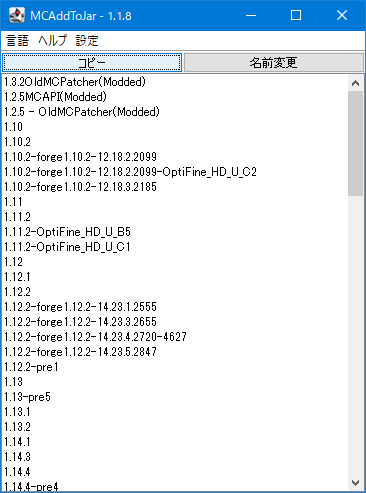
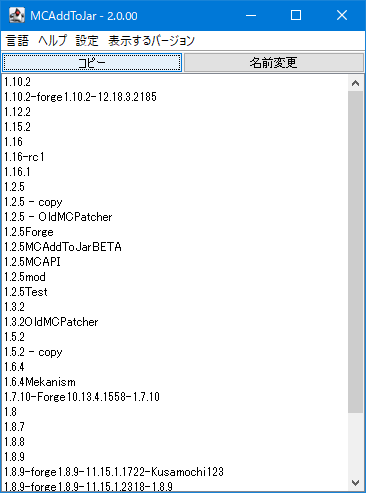
Update for 2.0.00

diff --git a/OldMCPatcher/index.html b/OldMCPatcher/index.html
@@ -8,8 +8,14 @@
         font-family: meiryo, sans-serif;
       }
       .main {
-        margin: 0 40px;
+        margin: 10px 50px;
+		padding: 20px;
+	    background-color: #fff;
+		border-radius: 10px;
       }
+	  body {
+	    background-color: #33638a;
+	  }
       h2 {
         border-bottom: 1px solid #636363;
         border-left: 3px solid #636363;
@@ -115,14 +121,14 @@
     <img src="MCAddToJar/start.png">
     <p>OldMCPatcher導入サポートソフト。</p>
     <p>ダウンロードリンク:<a href="https://github.com/kusaanko/MCAddToJar/releases">https://github.com/kusaanko/MCAddToJar/releases</a></p>
-    <p>サポートランチャーバージョン:1.6以前、2.x</p>
+    <p>サポートランチャーバージョン:2.x</p>
     <p>サポートマインクラフトバージョン:1.0～1.5.2</p>
     <h2>概要</h2>
     <p>MCPatcherの新ランチャー対応版が私の環境では動かなかったので似たものを作りました。</p>
     <p>上記のOldMCPatcherの導入を自動で行ってくれる機能もあります。（メイン機能？）</p>
     <p>複数の便利機能を備えています。</p>
     <p>Minecraft 1.0～1.5.2のみ対応。</p>
-    <p>～新ランチャーに対応。</p>
+    <p>新ランチャーに対応。</p>
     <p>Java 8以上を使って起動してください。</p>
     <p>1.6以前の旧ランチャーにも対応。</p>
     <h3>jarファイルにMODを導入</h3>
@@ -154,6 +160,9 @@
     <img src="MCAddToJar/mcdir.png">
     <p>.minecraftのディレクトリを変更できます。</p>
     <p>.minecraftのディレクトリが見つからなかったときにも出てきます。</p>
+    <h3>表示するバージョン</h3>
+    <img src="MCAddToJar/versionstoshow.png">
+    <p>表示するバージョンを選択します。自動で判断しているので適切に判断されない場合もあります。</p>
     <h3>コピー</h3>
     <img src="MCAddToJar/copy.png">
     <p>既存のバージョンをコピーします。</p>
@@ -206,6 +215,46 @@
     <p>jarファイルをzipファイルに圧縮してバックアップしてくれます。</p>
     <h3>jsonをバックアップ</h3>
     <p>jsonファイルをzipファイルに圧縮してバックアップしてくれます。</p>
+	<h2>1.2.5専用の機能</h2>
+    <img src="MCAddToJar/1.2.5start.png">
+	<h2>Modマネージャー</h2>
+	<p>1.2.5用のMODをダウンロードできます。前提MODを自動でダウンロードしてくれる機能もあります。推奨バージョンでないMODのバージョンを合わせることも可能です。また、パッチ機能もあるので、MODにパッチを当てることもできます。IDの競合を回避したコンフィグをインストールすることも可能です。</p>
+	<h3>プロファイルを選択</h3>
+	<img src="MCAddToJar/choose_profile.png">
+	<p>プロファイルを選択します。プロファイルが一つしかない場合はこの画面は表示されません。</p>
+	<h3>重大</h3>
+	<img src="MCAddToJar/modmanager_serious.png">
+	<p>重大には前提MODが不足しているMODが出てきます。赤文字のMODが足りていません。</p>
+	<h3>要更新</h3>
+	<img src="MCAddToJar/modmanager_needupdating.png">
+	<p>MODのバージョンが古かったり、他のMODと共存するのに不都合なバージョンであるMODが表示されます。更新をクリックすることで推奨バージョンがダウンロードできます。</p>
+	<h3>インストール済み</h3>
+	<img src="MCAddToJar/modmanager_installed.png">
+	<p>インストール済みのMODを確認できます。削除、再ダウンロードが可能です。</p>
+	<h3>未インストール</h3>
+	<img src="MCAddToJar/modmanager_notinstalled.png">
+	<p>インストールされていないMODの一覧です。ここからMODをダウンロードすることができます。必要な前提MODは自動でダウンロードしてくれます。</p>
+	<p>また、競合する場合はインストールせず警告を出します。</p>
+	<h3>パッチ</h3>
+	<img src="MCAddToJar/modmanager_patch.png">
+	<p>MODにパッチを当てることができます。既に当てられているかどうかは検知できない(検知する仕組みを作っていない)ので、不安であれば何度でも当ててください。</p>
+	<h3>コンフィグ</h3>
+	<img src="MCAddToJar/modmanager_config.png">
+	<p>コンフィグを生成します。IDの競合回避済みのコンフィグになっています。</p>
+	<img src="MCAddToJar/modmanager_config_option.png">
+	<p>導入する際は、どのようにインストールするかを選択します。上書きは全て上書きします。存在しないファイルのみは存在するファイルは上書きしません。ファイルを選択は選択したファイルのみ上書きします。</p>
+	<h2>クラッシュログの解析</h2>
+	<img src="MCAddToJar/crashlog_analyzer.png">
+	<p>クラッシュログを解析します。対応しているクラッシュログのみなので、解析できないことがあります。ここに出てきたクラッシュログ全文を貼り付けてください。</p>
+	<h2>自動ソート</h2>
+	<img src="MCAddToJar/autosort.png">
+	<p>導入されているMODを推奨順に並び替えます。うまく起動しなかった際は手動で並び替えてください。</p>
+    <h2>forgeフォルダ</h2>
+    <p>ダウンロードしたforgeが置いてあります。削除してしまうと次回出力時に出力できなくなるので削除しないでください。</p>
+    <h2>modsフォルダ</h2>
+    <p>MODマネージャーを使用した際にダウンロードしたMODが置いてあります。消しても再ダウンロードしますが、ダウンロード元が404になったときには再ダウンロードできなくなるので注意してください。</p>
+    <h2>originalsフォルダ</h2>
+    <p>Minecraftのバニラがおいてあります。削除すると再度Minecraftのサーバーからダウンロードし直します。</p>
     <h2>profilesフォルダ</h2>
     <p>MCAddToJar.jarのあるフォルダにprofilesフォルダが出来上がると思います。その中には何のMODを追加する、順番はどうするといった情報が書かれているprofileファイルがあります。</p>
     <p>絶対に消さないようにしてください。アンインストール時は消してください。</p>
